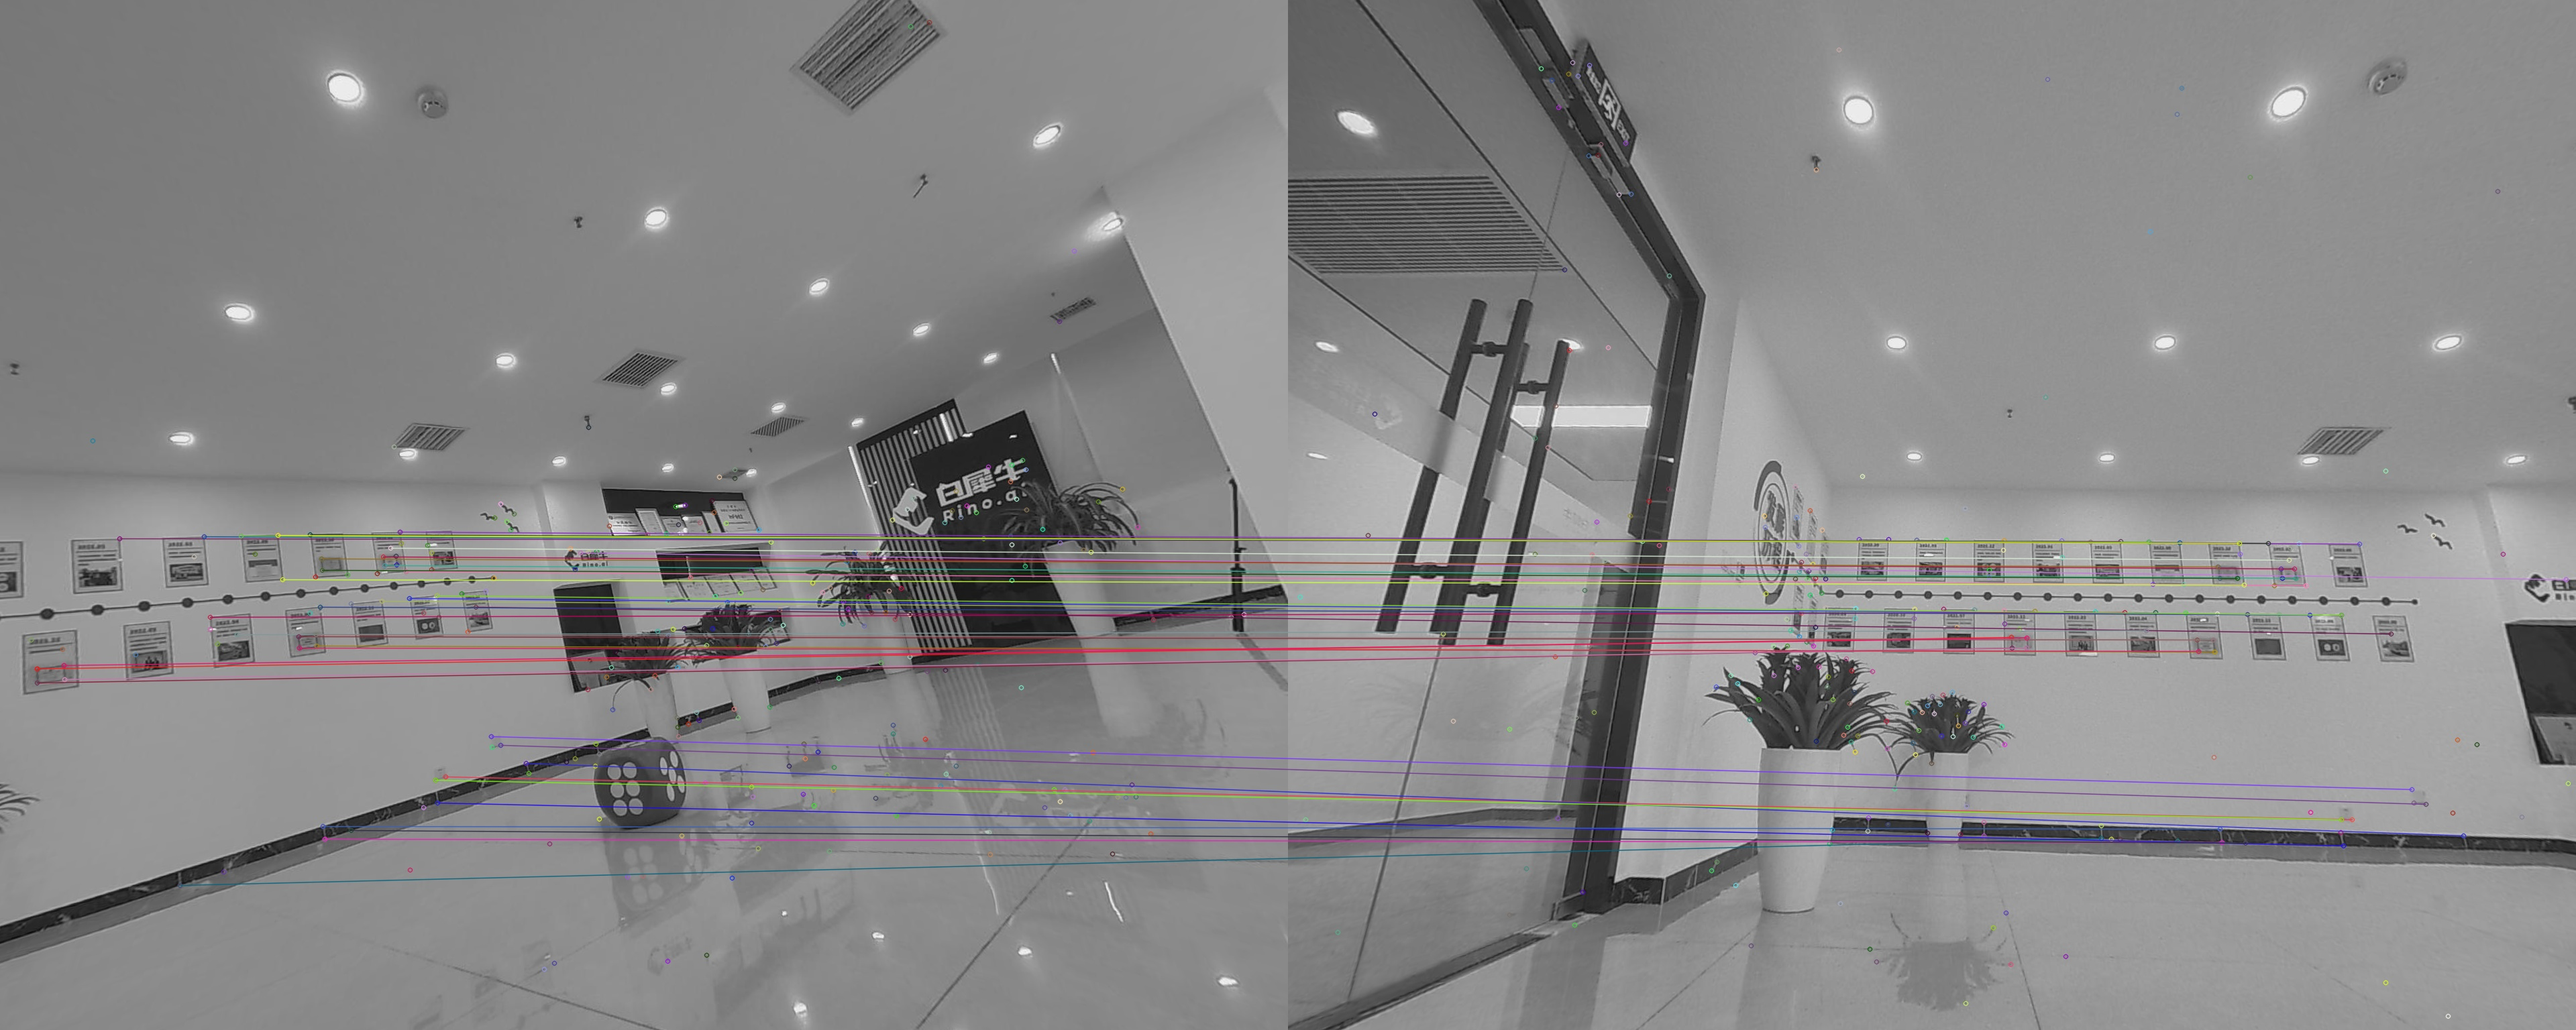
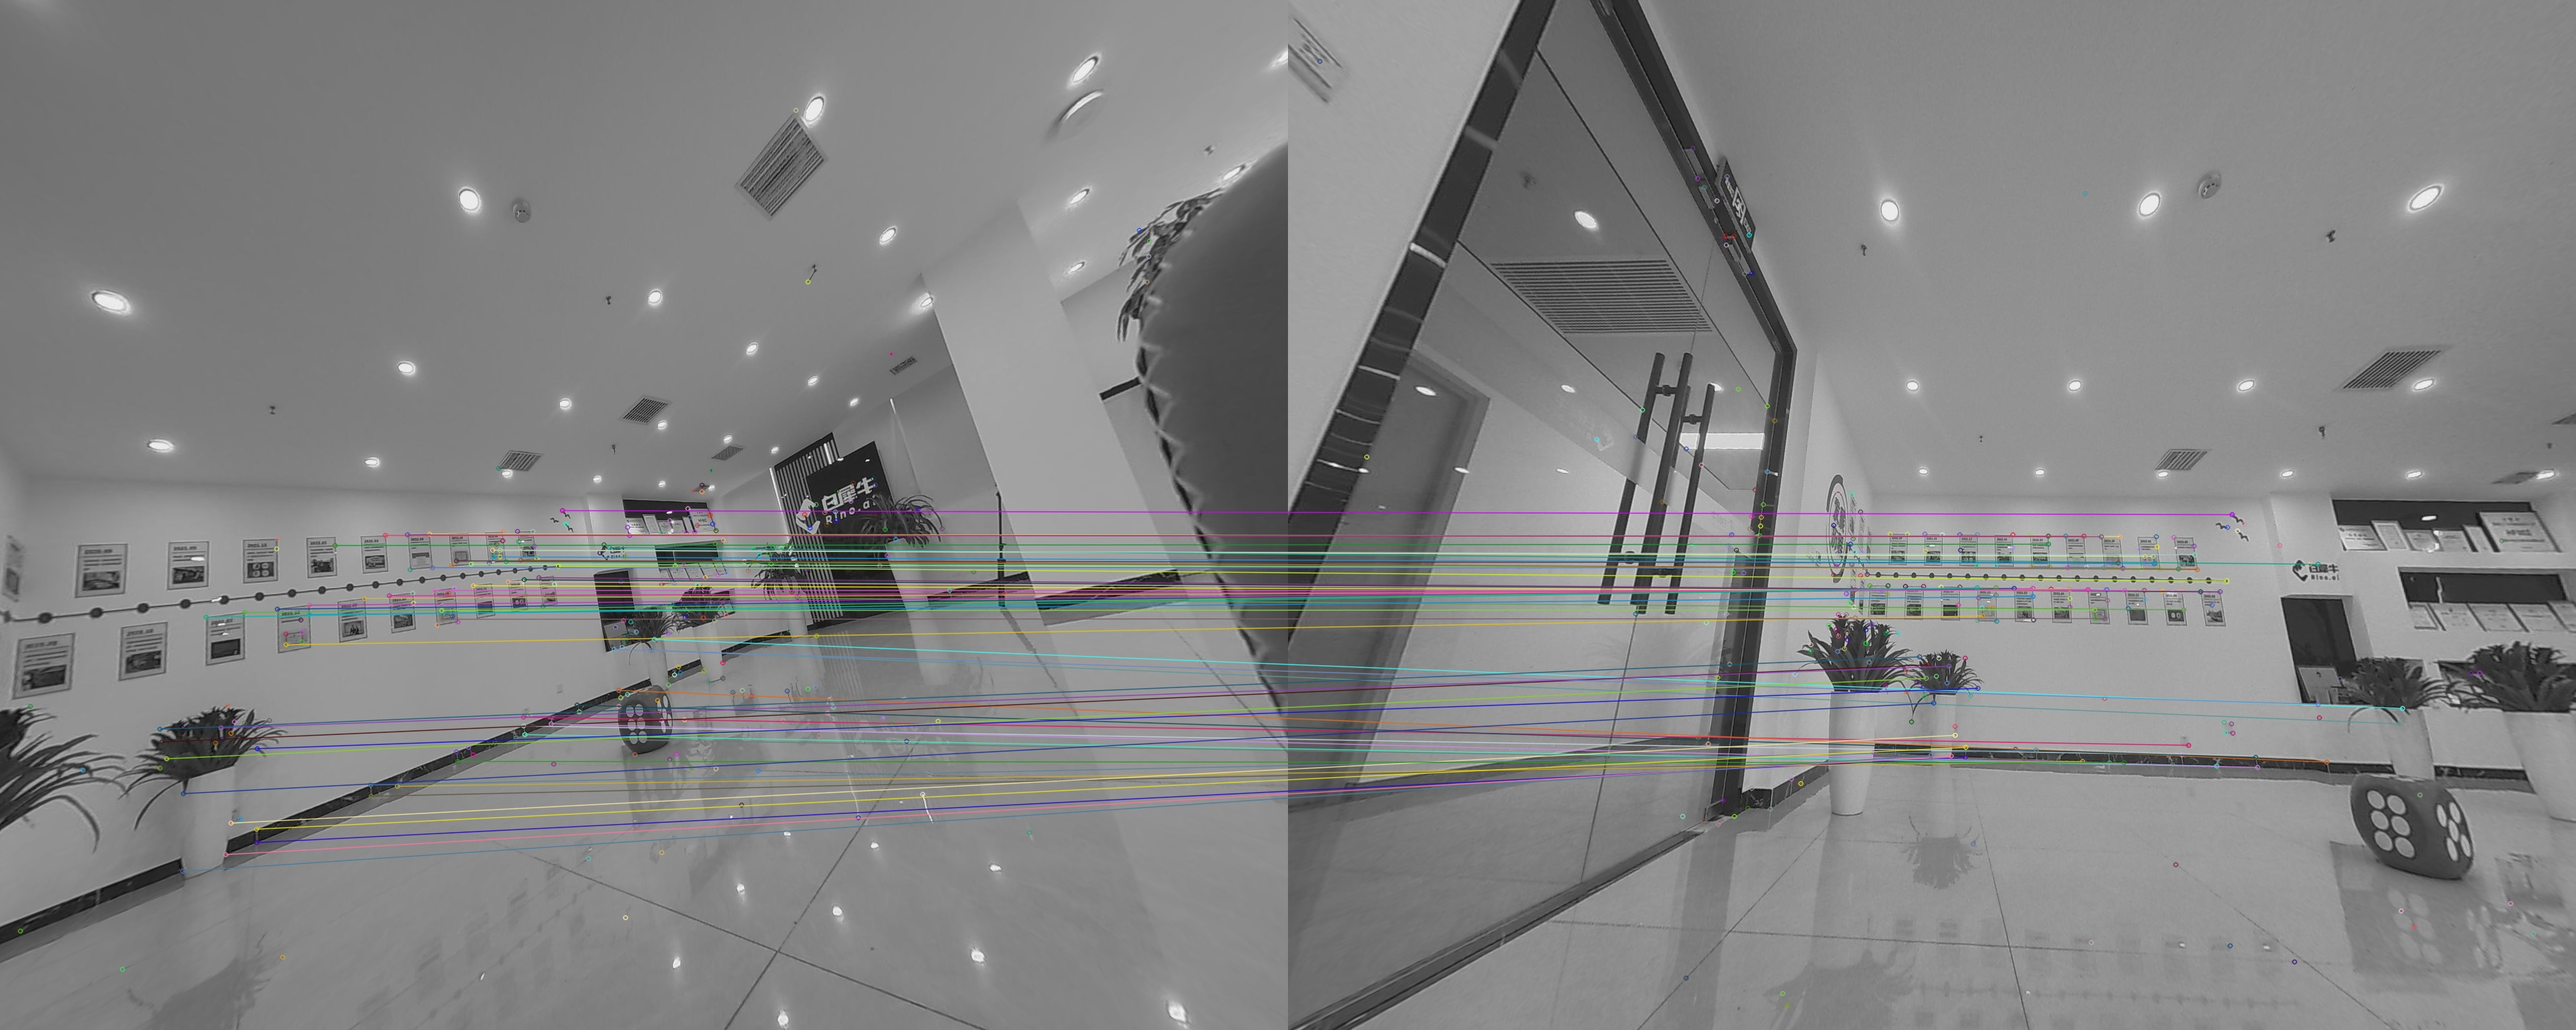
330_second

diff --git a/src/calibration.cpp b/src/calibration.cpp
@@ -50,17 +50,18 @@ void ImageCalibration::readParams()
   D1_ = (cv::Mat_<double>(1, 8) << c1_k1, c1_k2, c1_p1, c1_p2, c1_k3, c1_k4, c1_k5, c1_k6);
 }
 
-void ImageCalibration::showImage(cv::Mat img, std::vector<cv::KeyPoint> point)
+void ImageCalibration::undistorted(cv::Mat input_img, cv::Mat &output_img, cv::Mat K, cv::Mat D)
 {
-  for (auto &p : point)
-  {
-    cv::circle(img, p.pt, 3, cv::Scalar(0, 255, 0), 1);
-  }
-  cv::Mat img_resized;
-  cv::Size size(2300, 1200); // 你想要的新的图像大小
-  cv::resize(img, img_resized, size);
-  cv::imshow("Image", img_resized);
-  cv::waitKey(0);
+  int rows = input_img.rows, cols = input_img.cols;
+  ;
+  const int ImgWidth = cols;
+  const int ImgHeight = rows;
+  cv::Mat map1, map2;
+  cv::Size imageSize(ImgWidth, ImgHeight);
+  const double alpha = 0;
+  cv::Mat NewCameraMatrix = getOptimalNewCameraMatrix(K, D, imageSize, alpha, imageSize, 0);
+  initUndistortRectifyMap(K, D, cv::Mat(), NewCameraMatrix, imageSize, CV_16SC2, map1, map2);
+  remap(input_img, output_img, map1, map2, cv::INTER_LINEAR);
 }
 
 void ImageCalibration::calibrate(std::vector<cv::KeyPoint> &points0, std::vector<cv::KeyPoint> &points1, std::vector<cv::DMatch> &matchs)

diff --git a/main.cpp b/main.cpp
@@ -21,8 +21,10 @@ int main(int argc, char **argv)
     cv::Mat image1_ = cv::imread(image1_path, cv::IMREAD_GRAYSCALE);
     cv::Mat image0, image1;
     // 对整个图像去畸变
-    cv::undistort(image0_, image0, calier.K0_, calier.D0_);
-    cv::undistort(image1_, image1, calier.K1_, calier.D1_);
+    // cv::undistort(image0_, image0, calier.K0_, calier.D0_);
+    // cv::undistort(image1_, image1, calier.K1_, calier.D1_);
+    calier.undistorted(image0_, image0, calier.K0_, calier.D0_);
+    calier.undistorted(image1_, image1, calier.K1_, calier.D1_);
     Configs configs(config_path, model_dir);
     std::cout << image0.size() << "\n";
     std::cout << image1.size() << "\n";
@@ -31,8 +33,8 @@ int main(int argc, char **argv)
 
     // cv::resize(image0, image0, cv::Size(width, height));
     // cv::resize(image1, image1, cv::Size(width, height));
-    // cv::imshow("image0", image0);
-    // cv::waitKey(0);
+    cv::imshow("image0", image0);
+    cv::waitKey(0);
     std::cout << "First image size: " << image0.cols << "x" << image0.rows << std::endl;
     std::cout << "Second image size: " << image1.cols << "x" << image1.rows << std::endl;
 

diff --git a/include/calibration.h b/include/calibration.h
@@ -14,7 +14,7 @@ public:
   ~ImageCalibration() = default;
   void readParams();
   void calibrate(std::vector<cv::KeyPoint> &points0, std::vector<cv::KeyPoint> &points1, std::vector<cv::DMatch> &matchs);
-  void showImage(cv::Mat img, std::vector<cv::KeyPoint> point);
+  void undistorted(cv::Mat input_img, cv::Mat &output_img, cv::Mat K, cv::Mat D);
   cv::Mat K0_, K1_;
   cv::Mat D0_, D1_;
   std::vector<cv::DMatch> ransac_matchs;
